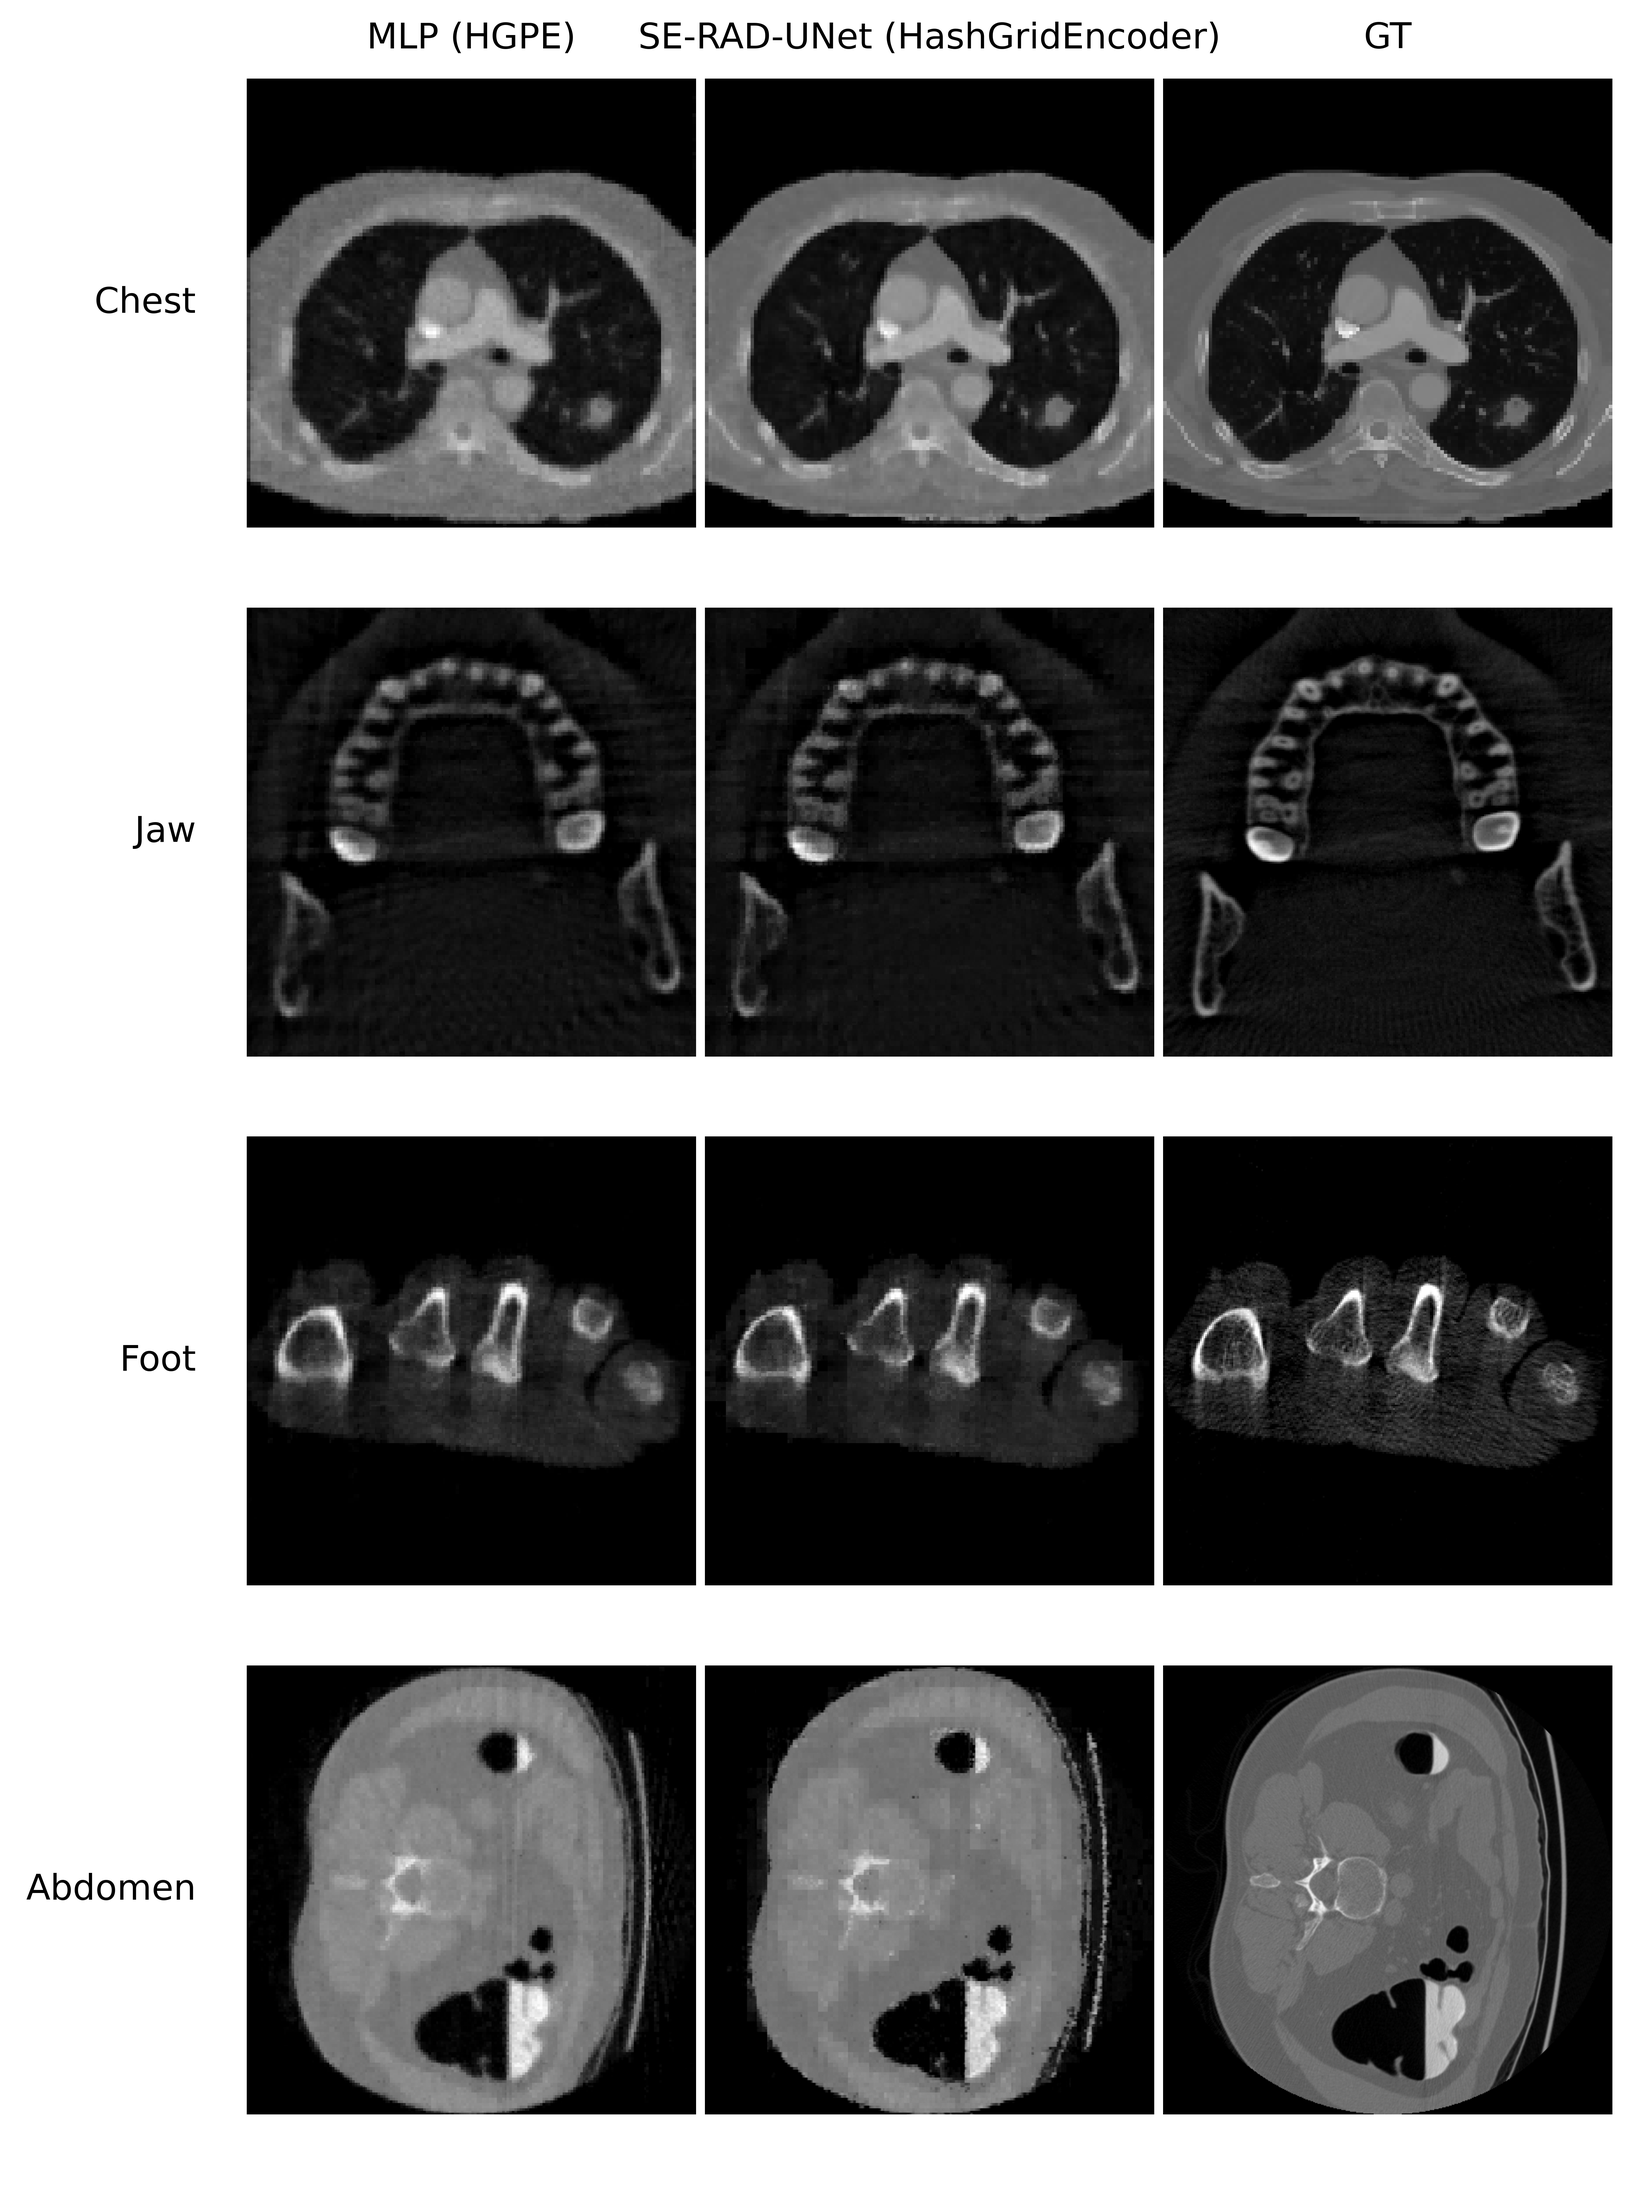
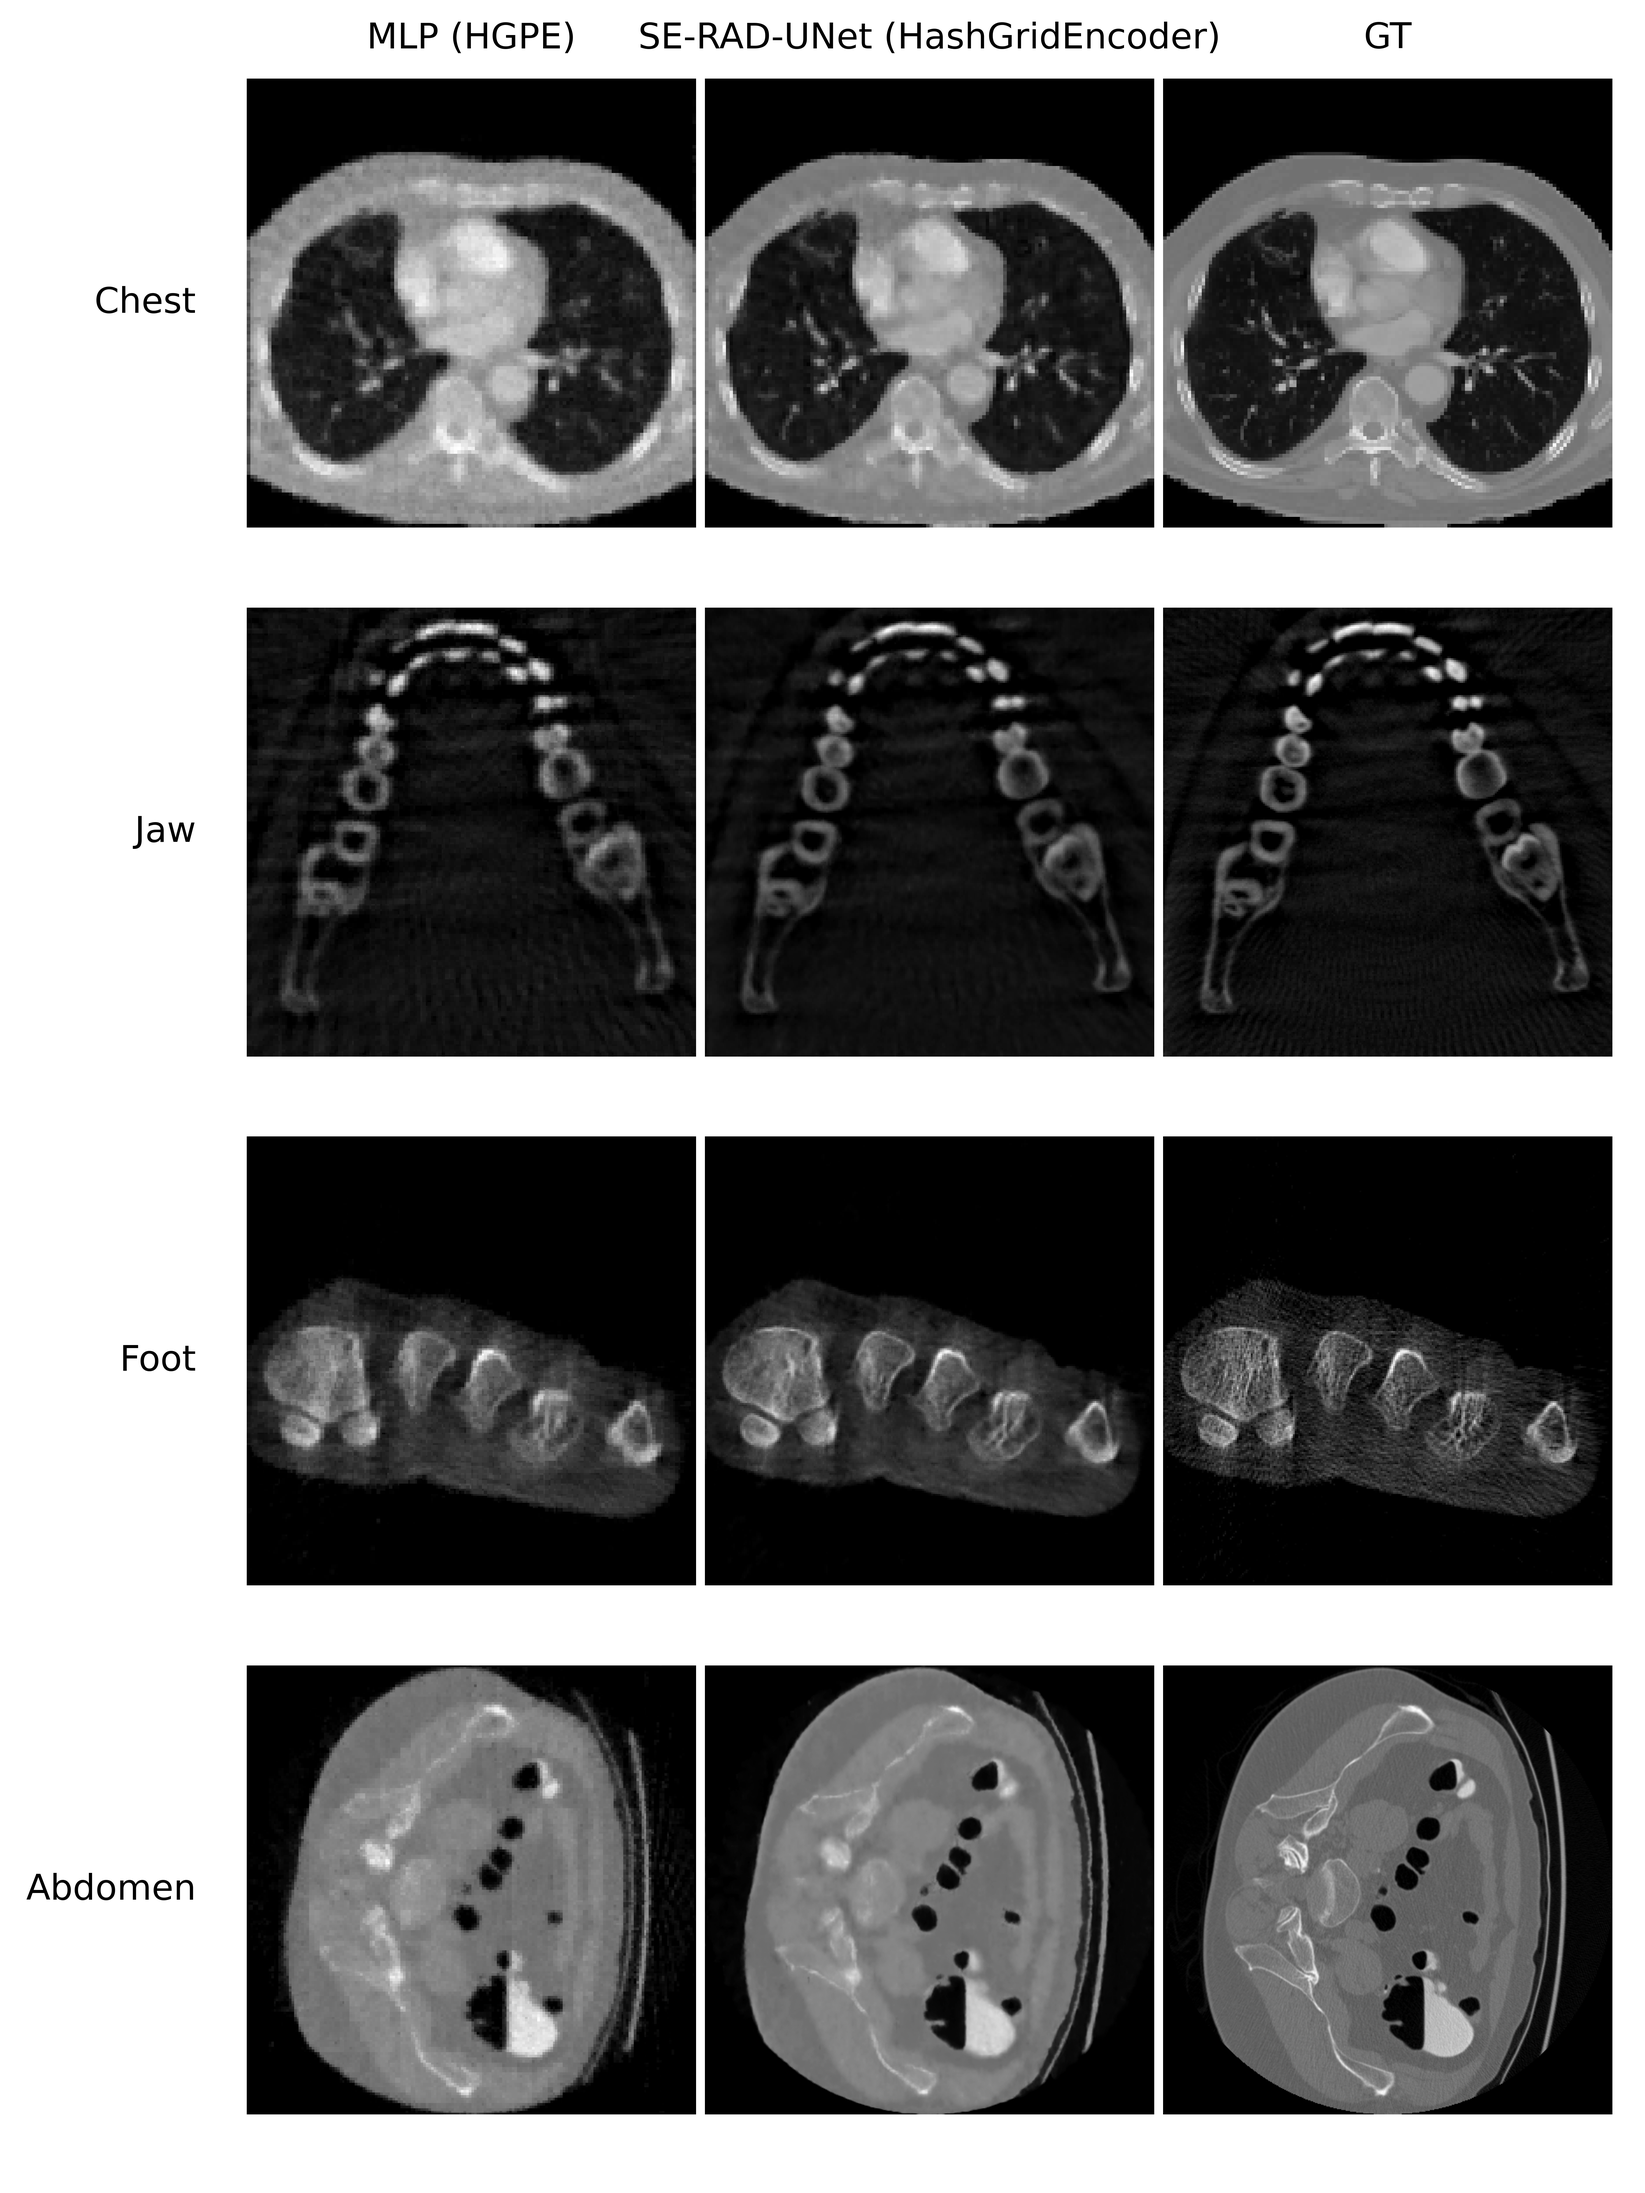
visual_comparison

diff --git a/create_image_grid.py b/create_image_grid.py
@@ -25,7 +25,7 @@ for i in range(len(rows)):
 
         if os.path.exists(fpath):
             with Image.open(fpath) as img:
-                mid = img.n_frames // 2
+                mid = img.n_frames // 3
                 img.seek(mid)
                 frame = img.convert('L')
                 arr = np.array(frame, dtype=np.float32)
